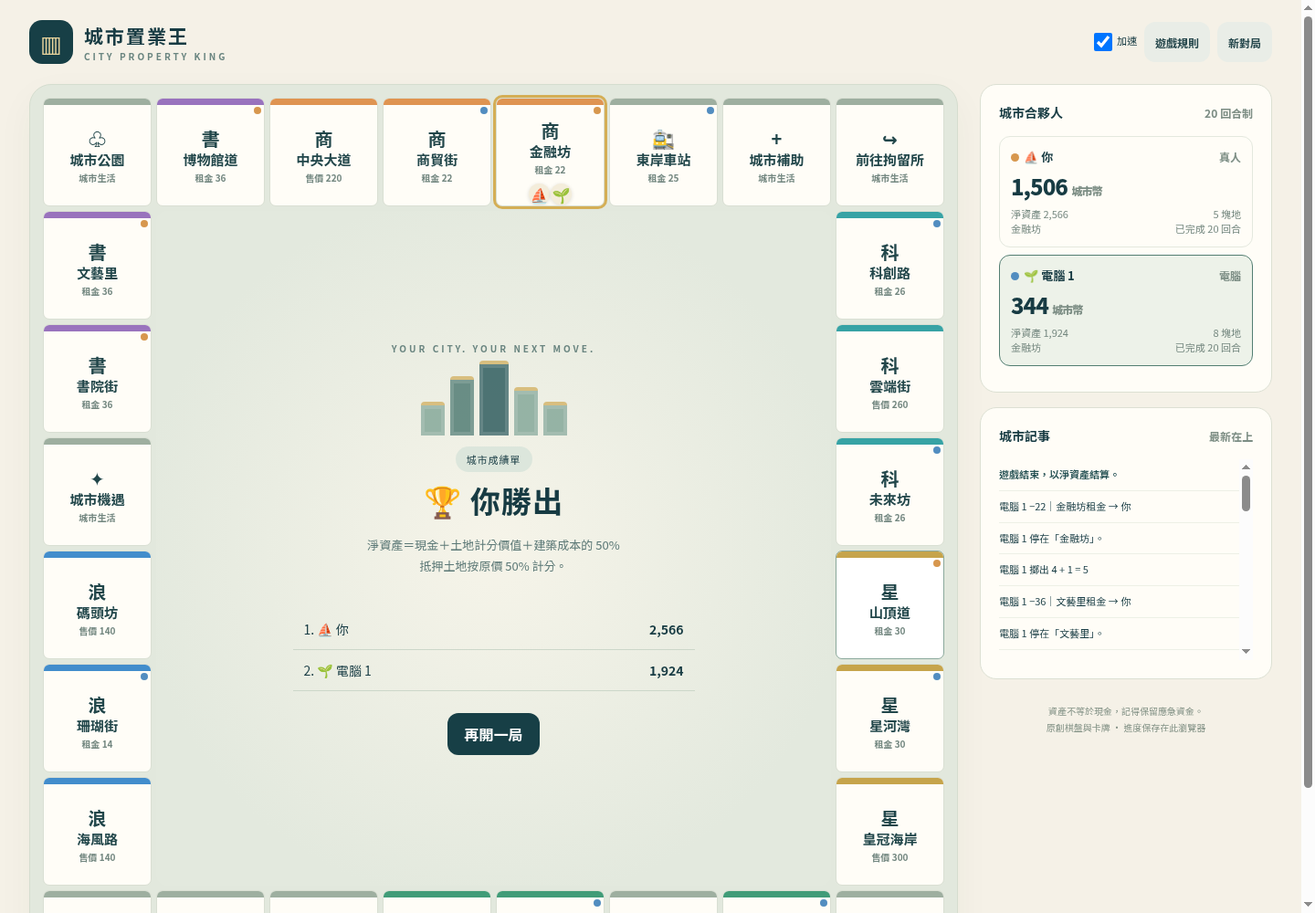
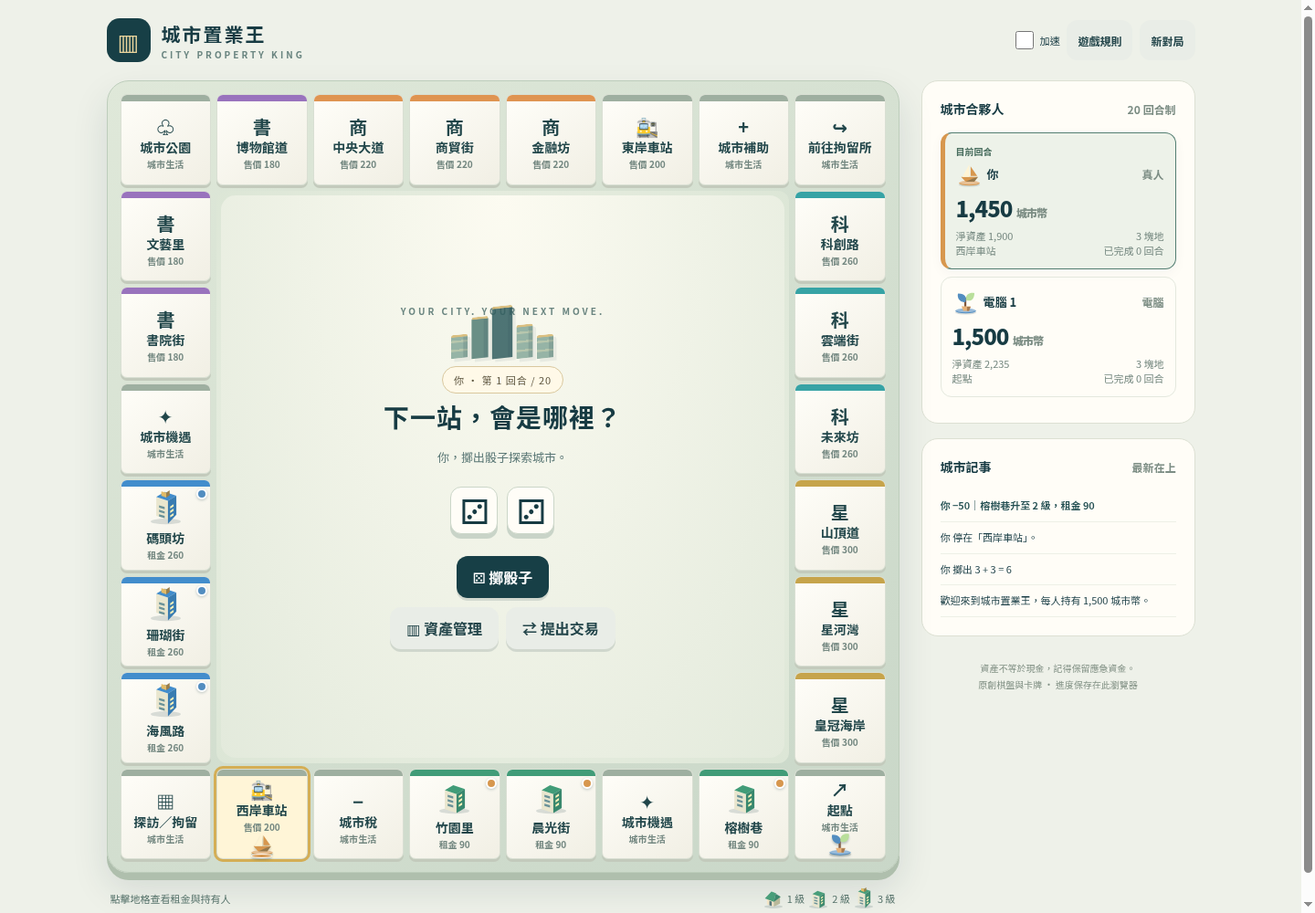
Refresh board with dimensional pieces and buildings and mobile turn controls

diff --git a/app.js b/app.js
@@ -11,15 +11,23 @@ const esc=v=>String(v).replace(/[&<>"']/g,c=>({'&':'&amp;','<':'&lt;','>':'&gt;'
 const money=n=>n.toLocaleString('zh-Hant');
 const btn=(label,action,cls='',disabled=false)=>`<button class="${cls}" data-action="${action}" ${disabled?'disabled':''}>${label}</button>`;
 const city='<div class="city-art" aria-hidden="true"><span></span><span></span><span></span><span></span><span></span></div>';
+const pieceNames=['小船','樹苗','火箭','咖啡杯'];
+function pieceArt(id,color=colors[id]){const shapes=[
+ '<path d="M12 39h41l-9 12H23z" fill="currentColor"/><path d="M32 9v30H15z" fill="#fff4d4"/><path d="M35 14l16 23H35z" fill="currentColor"/><path d="M23 51h21l9-12-12 4z" fill="#163d49" opacity=".35"/>',
+ '<path d="M31 44V22" stroke="#80583e" stroke-width="5"/><path d="M31 33C10 33 12 12 14 12c17 0 22 10 17 21" fill="currentColor"/><path d="M33 28C30 11 46 9 53 11c0 13-7 22-20 17" fill="#b9df9b"/><path d="M22 43h22l-4 11H26z" fill="#e7b37a"/><path d="M35 44h9l-4 10h-5z" fill="#a97b50"/>',
+ '<path d="M25 34l-8 14 12-4m10-10 8 14-12-4" fill="currentColor"/><path d="M32 5C18 19 22 34 27 45h10C43 32 45 18 32 5" fill="#f4f4e9"/><path d="M32 5c8 17 6 29 0 40h5C43 32 45 18 32 5" fill="#c2d2d6"/><circle cx="32" cy="25" r="6" fill="currentColor"/><path d="M28 46l4 11 4-11" fill="#f5af57"/>',
+ '<ellipse cx="31" cy="49" rx="22" ry="6" fill="#d8e1db"/><path d="M43 23h5c14 0 12 18-2 18h-4" fill="none" stroke="currentColor" stroke-width="5"/><path d="M15 22h31l-3 23q-12 9-25 0z" fill="currentColor"/><ellipse cx="30" cy="22" rx="15" ry="5" fill="#fff4dc"/><ellipse cx="30" cy="23" rx="11" ry="3" fill="#795b47"/><path d="M23 7q-5 5 0 10m10-12q-5 5 0 10" fill="none" stroke="#d6dacf" stroke-width="3" stroke-linecap="round"/>'
+ ];return `<span class="piece-art" style="--piece:${color}" aria-hidden="true"><svg viewBox="0 0 64 64"><ellipse cx="32" cy="58" rx="26" ry="5" fill="#123747" opacity=".15"/><ellipse cx="32" cy="54" rx="25" ry="6" fill="currentColor"/><ellipse cx="32" cy="52" rx="25" ry="6" fill="#fff" opacity=".4"/>${shapes[id%4]}</svg></span>`}
+function buildingArt(level){return `<span class="building-art level-${level}" aria-hidden="true"><svg viewBox="0 0 64 64"><ellipse cx="32" cy="56" rx="27" ry="5" fill="#183c45" opacity=".15"/>${level===1?'<path d="M13 31l20 7v18l-20-7z" fill="#f2e5c6"/><path d="M33 38l18-10v19L33 56z" fill="#b9b99b"/><path d="M7 32l19-20 13 5-6 25z" fill="currentColor"/><path d="M26 12l27 15-20 15 6-25z" fill="currentColor"/><path d="M33 42l20-15-14-10z" fill="#173e47" opacity=".25"/><path d="M20 39l7 2v13l-7-2z" fill="#57767a"/>':`<path d="M15 ${level===2?19:12}l21 7v34l-21-7z" fill="#e9e6ce"/><path d="M36 ${level===2?26:19}l15-9v34L36 60z" fill="currentColor"/><path d="M15 ${level===2?19:12}l15-9 21 7-15 9z" fill="currentColor"/><path d="M36 ${level===2?26:19}l15-9v34L36 60z" fill="#173e47" opacity=".2"/>${[0,1,2].map(i=>`<path d="M20 ${27+i*8}l10 3v4l-10-3z" fill="#6a9298"/><path d="M40 ${29+i*8}l6-4v4l-6 4z" fill="#fff3ba"/>`).join('')}${level===3?'<path d="M24 10l9 3V4l-9-2z" fill="#e2bb68"/><path d="M33 13l6-4V0l-6 4z" fill="#9b7f49"/>':''}`}</svg></span>`}
 function header(){return `<header><div class="brand"><div class="brand-icon" aria-hidden="true">▥</div><div><h1>城市置業王</h1><div class="eyebrow">City Property King</div></div></div><nav class="tools" aria-label="遊戲選項">${s?`<label class="speed"><input id="fast" type="checkbox" ${fast?'checked':''}> 加速</label>`:''}${btn('遊戲規則','rules','secondary')}${s?btn('新對局','new','secondary'):''}</nav></header>`}
 function setup(){view='setup';app.innerHTML=header()+`<main class="setup"><section class="hero"><span class="pill">原創城市・你的置業故事</span>${city}<div class="eyebrow">Build a city. Make your move.</div><h2>一擲骰子，<br>一座你的城市。</h2><p>從一條小巷開始，打造你的置業版圖。<br>買地、收租、談判，把每一次機會變成資產。</p><p class="helptext">2–4 人・真人與電腦混合・同機輪流遊玩<br>自動儲存在此瀏覽器，無需登入。</p></section><form class="setup-card" id="setup"><h2>開展你的城市旅程</h2><label for="count">玩家人數</label><select id="count"><option value="2">2 位玩家</option><option value="3">3 位玩家</option><option value="4">4 位玩家</option></select><div id="setupPlayers"></div><label for="mode">遊戲模式</label><select id="mode"><option value="quick">快速模式 · 每人 20 回合</option><option value="classic">經典模式 · 最後一人勝出</option></select><p class="helptext">起始現金 1,500 · 經過起點 +200<br>快速模式以淨資產排名；遊戲時長視操作與對局而定。</p><button class="start" type="submit">開始新對局 →</button>${saved?btn('繼續上次對局','continue','secondary'):''}${loadError?`<p class="notice">${esc(loadError)}</p>`:''}</form></main>`;setupPlayers(2);document.querySelector('#count').onchange=e=>setupPlayers(+e.target.value);document.querySelector('#setup').onsubmit=e=>{e.preventDefault();if(saved&&saved.phase!=='over'&&!confirm('開始新對局將取代尚未完成的存檔，確定開始？'))return;const ps=[...document.querySelectorAll('.setup-player')].map((el,id)=>({name:el.querySelector('input').value.trim()||`玩家 ${id+1}`,ai:el.querySelector('select').value==='ai',piece:id}));if(ps.every(p=>p.ai)){alert('請保留至少一名真人玩家。');return}s=createGame(ps,document.querySelector('#mode').value);save();render()}}
-function setupPlayers(n){document.querySelector('#setupPlayers').innerHTML=Array.from({length:n},(_,i)=>`<div class="setup-player"><span aria-label="棋子 ${i+1}">${pieces[i]}</span><input maxlength="20" aria-label="玩家 ${i+1} 姓名" value="${i===0?'你':`電腦 ${i}`}" required><select aria-label="玩家 ${i+1} 類型"><option value="human">真人</option><option value="ai" ${i?'selected':''}>電腦</option></select></div>`).join('')}
+function setupPlayers(n){document.querySelector('#setupPlayers').innerHTML=Array.from({length:n},(_,i)=>`<div class="setup-player"><span aria-label="棋子 ${i+1}">${pieceArt(i)}</span><input maxlength="20" aria-label="玩家 ${i+1} 姓名" value="${i===0?'你':`電腦 ${i}`}" required><select aria-label="玩家 ${i+1} 類型"><option value="human">真人</option><option value="ai" ${i?'selected':''}>電腦</option></select></div>`).join('')}
 function save(){try{localStorage.setItem(key,JSON.stringify(s));saved=s;storageOK=true}catch{storageOK=false}}
-function act(a){if(busy)return;try{const old=s,from=player(old).pos,id=old.current;s=dispatch(s,a);save();const to=s.players[id].pos,animate=!fast&&!matchMedia('(prefers-reduced-motion: reduce)').matches&&(a.type==='roll'||a.type==='card')&&from!==to;if(animate){busy=true;animatedPos={id,pos:from};render();document.querySelector('.center').classList.add('rolling');let steps=(to-from+28)%28;if(a.type==='card'&&old.card===8)steps=-3;if(s.players[id].jailed)steps=1;const direct=s.players[id].jailed;let count=0;const step=()=>{count++;animatedPos.pos=direct?to:(from+(steps<0?-count:count)+28)%28;document.querySelector('.board').innerHTML=tiles()+center();document.querySelector('.actionbox').inert=true;if(count<Math.abs(steps))setTimeout(step,100);else{animatedPos=null;busy=false;render()}};setTimeout(step,a.type==='roll'?500:150)}else render()}catch(e){busy=false;animatedPos=null;showError(e.message)}}
+function act(a){if(busy)return;try{const old=s,from=player(old).pos,id=old.current;s=dispatch(s,a);save();const to=s.players[id].pos,animate=!fast&&!matchMedia('(prefers-reduced-motion: reduce)').matches&&(a.type==='roll'||a.type==='card')&&from!==to;if(animate){busy=true;animatedPos={id,pos:from};render();document.querySelector('.center').classList.add('rolling');let steps=(to-from+28)%28;if(a.type==='card'&&old.card===8)steps=-3;if(s.players[id].jailed)steps=1;const direct=s.players[id].jailed;let count=0;const step=()=>{count++;animatedPos.pos=direct?to:(from+(steps<0?-count:count)+28)%28;document.querySelector('.board').innerHTML=tiles()+boardCenter();document.querySelector('.turn-panel').innerHTML=center();document.querySelector('.actionbox').inert=true;if(count<Math.abs(steps))setTimeout(step,100);else{animatedPos=null;busy=false;render()}};setTimeout(step,a.type==='roll'?500:150)}else render()}catch(e){busy=false;animatedPos=null;showError(e.message)}}
 function showError(msg){const el=document.createElement('div');el.className='error';el.role='alert';el.textContent=msg;app.prepend(el)}
 function position(i){if(i<=7)return [8,8-i];if(i<=14)return [15-i,1];if(i<=21)return [1,i-13];return [i-20,8]}
-function tiles(){return board.map(t=>{const a=s.assets[t.id],ps=s.players.filter(p=>!p.bankrupt&&(animatedPos?.id===p.id?animatedPos.pos:p.pos)===t.id),g=groups[t.group],[row,col]=position(t.id);const icons={start:'↗',event:'✦',station:'🚉',visit:'▦',park:'♧',jail:'↪',tax:'−',grant:'+'};return `<button class="tile ${ps.length?'occupied':''} ${a.mortgaged?'mortgaged':''} ${player(s).pos===t.id?'current':''}" data-tile="${t.id}" style="grid-area:${row}/${col};--g:${g?.color??'#9eafa0'}" aria-label="${t.name}${a.owner!==null?`，${esc(s.players[a.owner].name)}持有`:''}，${t.price?`租金${rent(s,t.id)}`:t.type}"><span class="band"></span>${a.owner!==null?`<span class="owner" style="--owner:${colors[a.owner]}"></span>`:''}<span class="tile-icon" aria-hidden="true">${t.price?(a.mortgaged?'⊘':a.level?'▥'.repeat(a.level):g?.symbol??'🚉'):icons[t.type]}</span><span class="name">${t.id===7?'探訪／拘留':t.name}</span><span class="price">${t.price?`${a.owner===null?'售價':'租金'} ${money(a.owner===null?t.price:rent(s,t.id))}`:'城市生活'}</span><span class="tokens">${ps.map(p=>`<span class="token" title="${esc(p.name)}">${pieces[p.piece]}</span>`).join('')}</span></button>`}).join('')}
-function sidebar(){return `<aside class="sidebar"><section class="panel"><h2>城市合夥人 <span class="muted">${s.mode==='quick'?'20 回合制':'經典模式'}</span></h2><div class="players-grid">${s.players.map(p=>`<div class="player ${p.id===s.current?'active':''} ${p.bankrupt?'bankrupt':''}"><div class="player-head"><span><i class="color-dot" style="background:${colors[p.id]}"></i>${pieces[p.piece]} ${esc(p.name)}</span><span class="muted">${p.bankrupt?'已破產':p.ai?'電腦':'真人'}</span></div><div class="money">${money(p.cash)} <span class="muted">城市幣</span></div><div class="subrow"><span>淨資產 ${money(worth(s,p.id))}</span><span>${owned(s,p.id).length} 塊地</span></div><div class="subrow"><span>${p.jailed?'拘留中':board[p.pos].name}</span><span>已完成 ${p.turns} 回合</span></div></div>`).join('')}</div></section><section class="panel"><h2>城市記事 <span class="muted">最新在上</span></h2><div class="logs" role="log" aria-label="遊戲紀錄">${s.logs.slice(0,30).map(l=>`<p>${esc(l)}</p>`).join('')}</div></section><p class="footer-note">資產不等於現金，記得保留應急資金。<br>原創棋盤與卡牌 · 進度保存在此瀏覽器</p></aside>`}
+function tiles(){return board.map(t=>{const a=s.assets[t.id],ps=s.players.filter(p=>!p.bankrupt&&(animatedPos?.id===p.id?animatedPos.pos:p.pos)===t.id),g=groups[t.group],[row,col]=position(t.id);const icons={start:'↗',event:'✦',station:'🚉',visit:'▦',park:'♧',jail:'↪',tax:'−',grant:'+'};return `<button class="tile ${a.level?'built':''} ${ps.length?'occupied':''} ${a.mortgaged?'mortgaged':''} ${player(s).pos===t.id?'current':''}" data-tile="${t.id}" style="grid-area:${row}/${col};--g:${g?.color??'#9eafa0'}" aria-label="${t.name}${a.owner!==null?`，${esc(s.players[a.owner].name)}持有`:''}${a.level?`，${a.level}級建築`:''}，${t.price?`租金${rent(s,t.id)}`:t.type}"><span class="band"></span>${a.owner!==null?`<span class="owner" style="--owner:${colors[a.owner]}"></span>`:''}<span class="tile-icon" aria-hidden="true">${t.price?(a.mortgaged?'⊘':a.level?buildingArt(a.level):g?.symbol??'🚉'):icons[t.type]}</span><span class="name">${t.id===7?'探訪／拘留':t.name}</span><span class="price">${t.price?`${a.owner===null?'售價':'租金'} ${money(a.owner===null?t.price:rent(s,t.id))}`:'城市生活'}</span><span class="tokens">${ps.map(p=>`<span class="token ${p.id===s.current?'active-token':''}" title="${esc(p.name)}・${pieceNames[p.piece]}" style="--piece:${colors[p.id]}">${pieceArt(p.piece,colors[p.id])}</span>`).join('')}</span></button>`}).join('')}
+function sidebar(){return `<aside class="sidebar"><section class="panel"><h2>城市合夥人 <span class="muted">${s.mode==='quick'?'20 回合制':'經典模式'}</span></h2><div class="players-grid">${s.players.map(p=>`<div style="--player:${colors[p.id]}" class="player ${p.id===s.current?'active':''} ${p.bankrupt?'bankrupt':''}"><div class="player-head"><span><i class="color-dot" style="background:${colors[p.id]}"></i>${pieceArt(p.piece,colors[p.id])} ${esc(p.name)}</span><span class="muted">${p.bankrupt?'已破產':p.ai?'電腦':'真人'}</span></div><div class="money">${money(p.cash)} <span class="muted">城市幣</span></div><div class="subrow"><span>淨資產 ${money(worth(s,p.id))}</span><span>${owned(s,p.id).length} 塊地</span></div><div class="subrow"><span>${p.jailed?'拘留中':board[p.pos].name}</span><span>已完成 ${p.turns} 回合</span></div></div>`).join('')}</div></section><section class="panel"><h2>城市記事 <span class="muted">最新在上</span></h2><div class="logs" role="log" aria-label="遊戲紀錄">${s.logs.slice(0,30).map(l=>`<p>${esc(l)}</p>`).join('')}</div></section><p class="footer-note">資產不等於現金，記得保留應急資金。<br>原創棋盤與卡牌 · 進度保存在此瀏覽器</p></aside>`}
 function currentActor(){if(s.phase==='auction')return s.players[s.auction.turn];if(s.phase==='trade')return s.players[s.trade.other];return player(s)}
 function center(){const p=player(s),q=currentActor(),ai=q.ai&&s.phase!=='over',t=board[p.pos];let title='',desc='',actions='';
  if(s.phase==='handoff'){title=`${pieces[p.piece]} 輪到${esc(p.name)}`;desc='將裝置交給這位玩家，再開始回合。';actions=btn('開始回合','start')}
@@ -33,10 +41,11 @@ function center(){const p=player(s),q=currentActor(),ai=q.ai&&s.phase!=='over',t
  if(s.phase==='trade'){const tr=s.trade;title=`交易提案 → ${esc(q.name)}`;desc=`請由 ${esc(q.name)} 檢視並決定。<div class="trade-review">${tradeSummary(tr)}</div>`;actions=btn('接受交易','accept')+btn('拒絕','reject','secondary')}
  if(s.phase==='over'){const ranks=ranking(s),win=ranks[0],tied=ranks.filter(p=>!p.bankrupt&&worth(s,p.id)===worth(s,win.id)&&p.cash===win.cash&&groups.filter(g=>fullGroup(s,p.id,g.id)).length===groups.filter(g=>fullGroup(s,win.id,g.id)).length);title=`🏆 ${tied.map(p=>esc(p.name)).join('、')}${tied.length>1?'並列勝出':'勝出'}`;desc='淨資產＝現金＋土地計分價值＋建築成本的 50%<br>抵押土地按原價 50% 計分。';actions=`<ol class="ranking">${ranks.map((p,i)=>`<li><span>${i+1}. ${pieces[p.piece]} ${esc(p.name)} ${p.bankrupt?'（破產）':''}</span><strong>${money(worth(s,p.id))}</strong></li>`).join('')}</ol>`+btn('再開一局','new')}
  return `<section class="center phase-${s.phase}" aria-label="回合操作"><span class="eyebrow">Your city. Your next move.</span>${city}<span class="pill">${s.phase==='over'?'城市成績單':`${esc(p.name)} · 第 ${s.mode==='quick'?Math.min(p.turns+1,20):p.turns+1} 回合${s.mode==='quick'?' / 20':''}`}</span><h2>${title}</h2><p>${desc}</p>${s.dice?`<div class="dice" aria-label="骰子 ${s.dice.join('、')}">${s.dice.map(n=>`<span class="die">${['','⚀','⚁','⚂','⚃','⚄','⚅'][n]}</span>`).join('')}</div>`:''}<div class="actionbox"><div class="action-buttons" ${ai||busy?'inert':''}>${actions}</div>${ai?'<p class="helptext" role="status">電腦正在評估…</p>':''}</div>${management(s)&&!p.ai?`<div class="action-buttons">${btn('▥ 資產管理','assets','secondary')}${btn('⇄ 提出交易','trade-form','secondary')}</div>`:''}${!storageOK?'<p class="notice">瀏覽器無法儲存，本次進度不能保留。</p>':''}</section>`}
-function render(){clearTimeout(timer);view='game';app.innerHTML=header()+`<main class="layout"><div><div class="mobile-turn"><span>${pieces[player(s).piece]} ${esc(player(s).name)} 的回合</span><strong>${money(player(s).cash)} 城市幣</strong></div><div class="board-wrap"><div class="board">${tiles()}${center()}</div></div></div>${sidebar()}</main>`;document.querySelector('#fast').onchange=e=>{fast=e.target.checked;try{localStorage.setItem('city-property-speed',fast?'fast':'normal')}catch{}};scheduleAI()}
+function boardCenter(){return `<div class="board-city" aria-hidden="true"><span class="eyebrow">CITY PROPERTY KING</span>${city}<strong>城市置業王</strong><span>買地・建造・讓城市成長</span></div>`}
+function render(){clearTimeout(timer);view='game';app.innerHTML=header()+`<main class="layout"><div><div class="mobile-turn"><span>${pieceArt(player(s).piece,colors[s.current])} ${esc(player(s).name)} 的回合</span><strong>${money(player(s).cash)} 城市幣</strong></div><div class="board-wrap"><div class="board">${tiles()}${boardCenter()}</div></div><div class="board-legend"><span>點擊地格查看租金與持有人</span><span>${buildingArt(1)} 1 級 ${buildingArt(2)} 2 級 ${buildingArt(3)} 3 級</span></div><div class="turn-panel">${center()}</div></div>${sidebar()}</main>`;document.querySelector('#fast').onchange=e=>{fast=e.target.checked;try{localStorage.setItem('city-property-speed',fast?'fast':'normal')}catch{}};scheduleAI()}
 function scheduleAI(){if(busy)return;if(s.phase==='over'||!currentActor().ai)return;timer=setTimeout(()=>{if(modal.open){scheduleAI();return}try{const a=aiAction(s);if(a){if(s.phase==='buy'&&a.type==='auction'){s.logs.unshift('電腦保留現金應付租金，放棄原價購買。')}act(a)}}catch(e){showError(`電腦操作停止：${e.message}`)}},fast?70:650)}
 function open(html){body.innerHTML=html;if(!modal.open)modal.showModal()}
-function assetPanel(){const p=player(s);open(`<h2>${esc(p.name)}的資產</h2><p class="helptext">建造及出售須維持同組級別差不超過 1。抵押前須先售清同組建築。操作即時結算。</p><p>現金 <strong>${money(p.cash)}</strong> · 淨資產 ${money(worth(s,p.id))}</p><div class="asset-list">${owned(s,p.id).map(t=>{const a=s.assets[t.id],g=groups[t.group];return `<div class="asset-row" style="--g:${g?.color??'#91a59b'}"><strong>${t.name} ${a.mortgaged?'（已抵押）':`・${a.level} 級`}</strong><div class="asset-info">${g?.name??'城市鐵路'} · 租金 ${rent(s,t.id)}<br>${g?`每級建造 ${g.build} · 出售回收 ${g.build*.5}`:'車站不可建造'} · 抵押 ${t.price*.5} · 贖回 ${Math.ceil(t.price*.55)}</div><div class="asset-actions">${['build','sell','mortgage','redeem'].map((op,i)=>`<button data-asset="${op}" data-id="${t.id}" ${canAsset(s,t.id,op)?'':'disabled'}>${['建造 −'+(g?.build??0),'售一級 +'+(g?.build*.5||0),'抵押 +'+t.price*.5,'贖回 −'+Math.ceil(t.price*.55)][i]}</button>`).join('')}</div></div>`}).join('')||'<p>還未持有土地。擲骰探索城市吧。</p>'}</div>`)}
+function assetPanel(){const p=player(s);open(`<h2>${esc(p.name)}的資產</h2><p class="helptext">建造及出售須維持同組級別差不超過 1。抵押前須先售清同組建築。操作即時結算。</p><p>現金 <strong>${money(p.cash)}</strong> · 淨資產 ${money(worth(s,p.id))}</p><div class="asset-list">${owned(s,p.id).map(t=>{const a=s.assets[t.id],g=groups[t.group];return `<div class="asset-row" style="--g:${g?.color??'#91a59b'}"><div class="asset-heading">${g?buildingArt(Math.max(1,a.level)):''}<strong>${t.name} ${a.mortgaged?'（已抵押）':`・${a.level} 級`}</strong></div><div class="asset-info">${g?.name??'城市鐵路'} · 租金 ${rent(s,t.id)}<br>${g?`每級建造 ${g.build} · 出售回收 ${g.build*.5}`:'車站不可建造'} · 抵押 ${t.price*.5} · 贖回 ${Math.ceil(t.price*.55)}</div><div class="asset-actions">${['build','sell','mortgage','redeem'].map((op,i)=>`<button data-asset="${op}" data-id="${t.id}" ${canAsset(s,t.id,op)?'':'disabled'}>${['建造 −'+(g?.build??0),'售一級 +'+(g?.build*.5||0),'抵押 +'+t.price*.5,'贖回 −'+Math.ceil(t.price*.55)][i]}</button>`).join('')}</div></div>`}).join('')||'<p>還未持有土地。擲骰探索城市吧。</p>'}</div>`)}
 function tileDetail(i){const t=board[i],a=s.assets[i],g=groups[t.group];open(`<h2>${g?g.symbol+' ':''}${t.name}</h2><p>${g?.name??'城市設施'} · ${a.owner===null?'尚無持有人':`持有人：${esc(s.players[a.owner].name)}`}</p>${t.price?`<p>售價 ${t.price} · 目前租金 ${rent(s,i)}${a.mortgaged?' · 已抵押':''}</p><table class="rent-table">${(g?g.rents.map((n,i)=>[i?`${i} 級建築`:'基本租金',n]):[['持有 1 個未抵押車站',25],['持有 2 個未抵押車站',60]]).map(([label,n])=>`<tr><td>${label}</td><td>${n} 城市幣</td></tr>`).join('')}</table>${g?'<p class="helptext">集齊同組且全組未抵押：未建造土地基本租金加倍。建築租金直接依表計算。</p>':''}`:`<p>${{start:'正常經過或停在起點領取 200，一次移動只領一次。',event:'從牌堆抽取一張機遇卡，全部抽完再洗牌。',tax:'支付城市稅 100。',grant:'領取城市補助 100。',visit:'普通到訪不會被拘留。被送入拘留所才須處理離開條件。',jail:'直接送往拘留所，不領起點獎金，立即結束回合。',park:'休息一下，不會收費或獲得獎金。'}[t.type]}</p>`}`)}
 function tradeSummary(t){return `${esc(player(s).name)}付出 ${money(t.giveCash)} ＋ ${t.give.map(i=>board[i].name).join('、')||'無土地'}<br>${esc(s.players[t.other].name)}付出 ${money(t.takeCash)} ＋ ${t.take.map(i=>board[i].name).join('、')||'無土地'}<br>交易後現金：${esc(player(s).name)} ${money(player(s).cash-t.giveCash+t.takeCash)} ／ ${esc(s.players[t.other].name)} ${money(s.players[t.other].cash-t.takeCash+t.giveCash)}${groups.map(g=>{const owners=g.tiles.map(i=>t.give.includes(i)?t.other:t.take.includes(i)?s.current:s.assets[i].owner);return owners.every(i=>i===s.current)?`<br>你將持有完整${g.name}`:owners.every(i=>i===t.other)?`<br>對方將持有完整${g.name}`:''}).join('')}`}
 function tradeForm(){const qs=s.players.filter(p=>p.id!==s.current&&!p.bankrupt);if(!qs.length)return;open(`<h2>提出交易</h2><form id="tradeForm"><label for="other">交易對象</label><select id="other">${qs.map(p=>`<option value="${p.id}">${esc(p.name)}</option>`).join('')}</select><div id="tradeSides"></div><p id="tradePreview" class="helptext"></p><button type="submit">送出提案</button></form>`);const sides=()=>{const other=+document.querySelector('#other').value;document.querySelector('#tradeSides').innerHTML=`<div class="trade-columns">${[s.current,other].map((id,k)=>`<section><h3>${esc(s.players[id].name)}付出</h3><label>現金<input type="number" name="${k?'takeCash':'giveCash'}" min="0" max="${s.players[id].cash}" value="0" step="1"></label>${owned(s,id).filter(t=>tradable(s,id,t.id)).map(t=>`<label><input type="checkbox" name="${k?'take':'give'}" value="${t.id}"> ${t.name} (${t.price})</label>`).join('')||'<p class="helptext">沒有可交易的土地</p>'}</section>`).join('')}</div>`;preview()};const data=()=>{const f=new FormData(document.querySelector('#tradeForm'));return {other:+document.querySelector('#other').value,giveCash:+f.get('giveCash'),takeCash:+f.get('takeCash'),give:f.getAll('give').map(Number),take:f.getAll('take').map(Number)}};const preview=()=>document.querySelector('#tradePreview').innerHTML=tradeSummary(data());sides();document.querySelector('#other').onchange=sides;document.querySelector('#tradeForm').oninput=preview;document.querySelector('#tradeForm').onsubmit=e=>{e.preventDefault();const tr=data();modal.close();act({type:'trade',trade:tr})}}

diff --git a/style.css b/style.css
@@ -3,3 +3,10 @@
 @media(min-width:1500px){.layout{grid-template-columns:minmax(0,1050px) 340px}}@media(max-width:1050px){header{padding:16px 20px}.layout{padding:0 16px 20px;gap:14px;grid-template-columns:minmax(0,1fr) 250px}.panel{padding:14px}.center{padding:12px}.center .city-art{display:none}.tile .name{font-size:11px}.tile .price{font-size:9px}.tile .tile-icon{font-size:16px}.token{font-size:13px;width:19px;height:19px}.setup{gap:30px}.center p{font-size:12px}.center h2{font-size:22px}.action-buttons{margin-top:8px;gap:5px}.action-buttons button{font-size:12px;padding:8px 12px}.center .pill{font-size:9px}.die{width:40px;height:40px;font-size:30px}.dice{margin:10px 0}}
 @media(max-width:760px){header{padding:14px 12px;gap:8px}.brand h1{font-size:17px}.eyebrow{font-size:8px;letter-spacing:2px}.brand-icon{width:38px;height:38px;font-size:21px}.tools{gap:4px}.tools button{padding:7px 8px;font-size:11px}.speed{display:none}.layout{display:flex;flex-direction:column;padding:0 8px 20px}.board-wrap{padding:6px;border-radius:15px}.board{gap:3px}.tile{border-radius:4px;padding:10px 1px 2px}.tile .name{font-size:8px;white-space:normal;line-height:1.3}.tile .price{display:none}.tile .tile-icon{font-size:13px}.tile .band{height:4px}.tile .owner{width:5px;height:5px;top:5px;right:2px}.token{font-size:10px;width:13px;height:14px}.tile.occupied{padding-bottom:13px}.center{padding:8px}.center h2{font-size:18px;margin:3px 0}.center p{font-size:10px;line-height:1.5;margin:3px 0}.center .pill{font-size:8px;padding:3px 6px}.center .eyebrow{display:none}.die{width:30px;height:30px;font-size:23px;border-radius:7px}.dice{margin:5px 0;gap:6px}.action-buttons button{font-size:10px;min-height:44px;padding:6px 8px;border-radius:8px}.action-buttons{gap:4px;margin-top:6px}.actionbox input{min-height:35px;width:100px;padding:4px 6px;font-size:12px}.sidebar{display:grid;grid-template-columns:1fr;gap:10px}.players-grid{display:grid;grid-template-columns:1fr 1fr;gap:6px}.player{margin:0;padding:9px}.panel h2{margin-bottom:10px}.money{font-size:21px}.player-head{font-size:12px}.logs{max-height:150px}.setup{display:flex;flex-direction:column;gap:20px;padding:12px;margin-top:0}.hero{width:100%}.hero h2{font-size:36px;margin:12px 0}.hero p{font-size:12px;margin:0}.hero .city-art{display:none}.setup-card{width:100%;padding:22px}.hero>.pill{display:none}.mobile-turn{display:flex;justify-content:space-between;padding:9px 12px;background:#173f46;color:#f3ecd9;border-radius:10px;margin-bottom:8px;font-size:12px}.trade-review{font-size:10px}.ranking li{font-size:11px;padding:7px}.center .helptext{font-size:9px}.trade-columns{gap:10px}.asset-row{padding:10px}.board-wrap:has(.phase-trade) .center{justify-content:start}.phase-over .dice{display:none}}
 @media(prefers-reduced-motion:reduce){*,*::before,*::after{animation:none!important;transition:none!important}}
+
+:root{background:#eef1e9}.board-wrap{background:linear-gradient(145deg,#dfe8d9,#c9d7c8);border:1px solid #bdcdbb;box-shadow:0 8px 0 #afbfad,0 18px 38px #173b4320}.board{gap:6px}.tile{box-shadow:0 3px 0 #c3cabc;background:linear-gradient(145deg,#fffef9,#f1efe4);overflow:visible}.tile:hover{z-index:3;box-shadow:0 3px 0 #9aad9c,0 0 0 2px #537e72}.tile.current{outline:3px solid #d4ae55;background:#fff5d7}.tile .band{border-radius:6px 6px 0 0}.tile .owner{width:12px;height:12px;border:2px solid white;box-shadow:0 1px 3px #173b4340}.tile .tokens{bottom:0;gap:0;z-index:2}.token{width:30px;height:33px;border-radius:0;background:none;box-shadow:none;display:inline-flex;position:relative;flex-shrink:1;min-width:0;filter:drop-shadow(0 2px 1px #173b4340)}.piece-art{display:inline-flex;width:40px;height:40px;color:var(--piece);vertical-align:middle;flex-shrink:0}.piece-art svg,.building-art svg{display:block;width:100%;height:100%;overflow:visible}.token .piece-art{width:100%;height:100%}.active-token:after{content:'';position:absolute;bottom:0;left:12%;right:12%;height:3px;background:var(--piece);border:1px solid white;border-radius:50%}.tile.occupied{padding-bottom:30px}.building-art{display:inline-flex;width:45px;height:45px;color:var(--g,#499e7a);vertical-align:middle;flex-shrink:0}.tile .tile-icon:has(.building-art){height:35px;line-height:1}.tile .building-art{width:39px;height:39px;margin-top:-6px}.tile .name{font-size:clamp(9px,1vw,14px)}.tile.built.occupied .tile-icon{height:25px}.tile.built.occupied .building-art{height:31px}.layout>div:first-child{display:grid;grid-template-columns:minmax(0,1fr);align-content:start;position:relative}.board-wrap{grid-area:1/1}.turn-panel{grid-area:1/1;z-index:2;width:71%;height:71%;align-self:center;justify-self:center;min-height:0;min-width:0;overflow:auto;border-radius:16px}.turn-panel .center{height:100%;overflow:auto;background:radial-gradient(ellipse at top,#fcfbf1,#e3eadc);padding:16px}.center .city-art{height:58px;transform:scale(.7);margin:-5px 0 0}.board-city{grid-area:2/2/8/8;display:flex;flex-direction:column;align-items:center;justify-content:center;gap:8px;text-align:center;color:#557b71;background:radial-gradient(ellipse,#f6f7ed,#dce6d6);border-radius:12px}.board-city>strong{font-size:28px;letter-spacing:4px}.board-city>span:last-child{font-size:12px}.city-art span{transform:skewY(-6deg);box-shadow:inset -7px 0 #173b4330,5px 5px 0 #173b4315;background-image:repeating-linear-gradient(0deg,transparent 0 10px,#f7e9b455 11px 14px)}.board-legend{grid-area:2/1;display:flex;justify-content:space-between;align-items:center;gap:8px;font-size:11px;color:#57736b;padding:16px 4px 4px}.board-legend>span:last-child{display:flex;align-items:center;gap:3px}.board-legend .building-art{width:24px;height:24px}.player.active{border-left:5px solid var(--player);box-shadow:0 4px 14px #173b430a}.player-head>span:first-child{display:flex;align-items:center;gap:5px}.player-head .piece-art{width:29px;height:29px}.player-head .color-dot{display:none}.player.active:before{content:'目前回合';display:block;color:#476c5d;font-size:10px;font-weight:700;margin-bottom:3px}.setup-player .piece-art{width:35px;height:40px}.asset-heading{display:flex;gap:10px;align-items:center}.asset-heading .building-art{width:38px;height:38px}.action-buttons button{box-shadow:0 3px 0 #0a292c20}.center h2{line-height:1.35}.center .action-buttons{margin-top:10px}.center .pill{background:#fff9e8;border:1px solid #d9c89e;color:#5b533d}.speed{display:flex;align-items:center;gap:3px}.mobile-turn .piece-art{width:28px;height:28px}.mobile-turn>span{display:flex;align-items:center;gap:5px}
+@media(min-width:761px) and (max-width:1050px){.turn-panel .center{padding:10px}.center h2{font-size:20px}.tile .tokens .token{width:22px;height:25px}.tile.occupied{padding-bottom:23px}.tile .building-art{width:29px;height:29px}.tile .tile-icon:has(.building-art){height:25px}.board-legend{font-size:9px}.board-legend .building-art{width:18px;height:18px}}
+@media(max-width:760px){.layout>div:first-child{display:flex;flex-direction:column;gap:0}.mobile-turn{margin-bottom:10px;min-height:48px;padding:6px 12px;align-items:center;position:sticky;top:0;z-index:5;box-shadow:0 3px 10px #173b4320}.board{gap:3px}.board-wrap{padding:6px;box-shadow:0 5px 0 #afbfad,0 10px 20px #173b4315}.board-city>strong{font-size:22px}.board-city .city-art{transform:scale(1.1);margin:8px 0 18px}.board-city>.eyebrow{font-size:8px}.board-city>span:last-child{font-size:11px}.turn-panel{width:100%;height:auto;overflow:visible;margin:4px 0 12px;align-self:stretch;border:1px solid #cbd8c5;border-radius:16px;box-shadow:0 5px 14px #173b430a}.turn-panel .center{padding:18px 14px;overflow:visible;background:#fffdf6;border-radius:16px;min-height:230px}.center h2{font-size:23px;margin:10px 0 6px}.center p{font-size:13px;line-height:1.8;margin:5px 0}.center .pill{font-size:11px;padding:5px 10px}.center .helptext{font-size:12px}.center .city-art{display:none}.action-buttons{gap:8px;margin-top:12px}.action-buttons button{font-size:14px;padding:11px 15px;min-height:46px}.center .actionbox{max-width:none}.actionbox input{min-height:46px;width:130px;font-size:16px}.die{width:42px;height:42px;font-size:32px}.dice{margin:12px 0}.tile .token{width:20px;height:22px;max-width:25%}.tile .token:only-child{max-width:none}.tile.occupied{padding-bottom:18px}.tile .name{font-size:8px}.tile .tile-icon{font-size:12px}.tile.occupied .tile-icon{display:none}.tile.built .tile-icon{display:block;height:18px}.tile .building-art{width:24px;height:24px;margin-top:-5px}.tile.built.occupied .tile-icon{display:none}.tile .owner{width:7px;height:7px;top:5px;right:1px;border-width:1px}.tile.current{outline-width:2px}.board-legend{font-size:10px;padding:12px 2px 8px;flex-wrap:wrap}.board-legend .building-art{width:22px;height:22px}.tools{flex-wrap:wrap;justify-content:flex-end}.speed{display:flex;font-size:10px}.speed input{width:16px;min-height:16px}.brand{gap:7px}.brand h1{font-size:15px;white-space:nowrap}.brand-icon{display:none}.ranking li{font-size:13px}.trade-review{font-size:12px}.center.phase-over{min-height:300px}}
+
+@media(min-width:1051px){.layout{max-width:1240px;grid-template-columns:minmax(0,1fr) 300px;padding:0 24px 28px}header{max-width:1240px;padding:20px 24px}.center h2{font-size:28px}}
+@media(max-width:760px){.tile.built.occupied .tile-icon{display:block;position:absolute;right:0;top:6px;width:14px;height:14px}.tile.built.occupied .building-art{width:17px;height:17px;margin:0}.tile.built.occupied .name{padding-right:8px}.tile:focus-visible{outline:3px solid #2a6471;outline-offset:1px}}

diff --git a/index.html b/index.html
@@ -1,2 +1,2 @@
 <!doctype html>
-<html lang="zh-Hant"><head><meta charset="utf-8"><meta name="viewport" content="width=device-width,initial-scale=1"><meta name="theme-color" content="#153d46"><meta name="description" content="城市置業王：原創繁體中文買地、收租與交易棋盤遊戲。支援電腦對手、同機輪流遊玩及自動存檔。"><title>城市置業王｜City Property King</title><link rel="stylesheet" href="style.css"></head><body><div id="app"></div><dialog id="detail"><div id="detailBody"></div><form method="dialog"><button class="secondary">關閉</button></form></dialog><script type="module" src="app.js"></script></body></html>
+<html lang="zh-Hant"><head><meta charset="utf-8"><meta name="viewport" content="width=device-width,initial-scale=1"><meta name="theme-color" content="#153d46"><meta name="description" content="城市置業王：原創繁體中文買地、收租與交易棋盤遊戲。支援電腦對手、同機輪流遊玩及自動存檔。"><title>城市置業王｜City Property King</title><link rel="stylesheet" href="style.css?v=2"></head><body><div id="app"></div><dialog id="detail"><div id="detailBody"></div><form method="dialog"><button class="secondary">關閉</button></form></dialog><script type="module" src="app.js?v=2"></script></body></html>

diff --git a/docs/TEST-RESULTS.md b/docs/TEST-RESULTS.md
@@ -29,3 +29,13 @@
 未在真實 iPad、iPhone、Safari 或其他實體觸控裝置測試；手機驗證為 Chromium 視窗尺寸模擬。未完成真人平衡試玩，不宣稱電腦強度、平均遊戲時間或各地段勝率已驗證。
 
 經典模式可能膠著，建議預設快速模式。沒有網上連線、多裝置存檔同步或帳戶。清除瀏覽器資料會刪除本機進度。Google Fonts 需要網絡，失敗時使用系統字型。玩家可透過瀏覽器自行修改本機存檔，本作品沒有防作弊伺服器。
+
+## 介面更新驗證（2026-10-30）
+
+- 棋子改為四款帶底座的 SVG 立體插畫（小船、樹苗、火箭、咖啡杯），建築改為三級立體小屋、樓宇及地標。屬向量立體視覺，沒有使用 WebGL 或可旋轉的 3D 模型。
+- 桌面 1440×1000、平板尺寸 768×1024、手機 390×844 的 Chromium 檢查，均無橫向溢出。桌面保留棋盤中央操作；手機操作區移至棋盤下方，按鈕至少 46px，現金列可隨捲動保留。
+- 驗證真人開局、擲骰逐格動畫、落格購買提示、土地詳情、資產面板、Escape 關閉彈窗、加速選項及舊版存檔鍵恢復；沒有記錄 JavaScript 錯誤。
+- 以測試存檔展示三級建築，點擊三級土地可讀取租金 260。資產面板實際執行一級升二級，現金扣除 50、存檔級別及棋盤建築同步更新。
+- 四名真人同在起點，四款棋子均顯示且排列不互相重疊。小螢幕以棋盤概覽配合玩家卡辨識，完整資料由地格詳情提供。
+- 重新執行 `npm test`：21 項通過；包含 500 場快速模式及 30 場經典模式模擬，結果同上。規則引擎、資料及存檔格式未更改。
+- 更新 desktop.png、mobile.png 為帶建築的測試局截圖。未在實體觸控裝置或 Safari 測試。

diff --git a/README.md b/README.md
@@ -22,7 +22,7 @@
 
 ## 使用與儲存
 
-直接開啟 GitHub Pages 網址。手機點格子看詳情；主要操作在棋盤中央，資產管理和交易按鈕在自己回合出現。擲骰結果確定後先存檔，再呈現動畫；重新整理後按「繼續上次對局」。支援鍵盤 Tab、Enter、Escape，無拖曳操作。勾選「加速」可略過等待，系統減少動態效果設定亦適用。
+直接開啟 GitHub Pages 網址。手機點格子看詳情；桌面主要操作在棋盤中央；手機操作區在棋盤下方，頂部保留目前玩家與現金。資產管理和交易按鈕在自己回合出現。棋子使用四款帶底座的立體向量造型，三級建築分為小屋、樓宇及地標；玩家卡與持有人標記以相同顏色對應。擲骰結果確定後先存檔，再呈現動畫；重新整理後按「繼續上次對局」。支援鍵盤 Tab、Enter、Escape，無拖曳操作。勾選「加速」可略過等待，系統減少動態效果設定亦適用。
 
 進度存在目前瀏覽器的 localStorage，只保留一局。不同裝置不會同步；清除網站資料會刪除進度。無法儲存時畫面會提示。不要用 file:// 開啟 ES module，需透過靜態 HTTP 伺服器。
 

diff --git a/AGENTS.md b/AGENTS.md
@@ -5,3 +5,5 @@
 保留 main 根目錄 GitHub Pages、相對資源路徑、本機存檔鍵 `city-property-king.v1`、至少一名真人、2–4 人及快速／經典模式。不得加入後端或改動其他網站。存檔格式變更須提供遷移或明確版本提示。
 
 規則運算集中 engine.js，資料在 data.js，UI 在 app.js；所有遊戲資金及所有權改動透過 dispatch。動畫只呈現已存檔結果。改規則後跑 npm test，介面變更補瀏覽器驗證。經典模式無時間上限，不宣稱必定在固定回合完局或已通過真實 Safari／iPad 測試。
+
+介面使用 app.js 的 pieceArt／buildingArt 產生 SVG 立體插畫，棋子顏色與玩家卡及持有人標記對應；桌面回合操作覆於棋盤中央，760px 以下移至棋盤下方。保留動畫重繪 turn-panel 的流程及減少動態效果支援。
